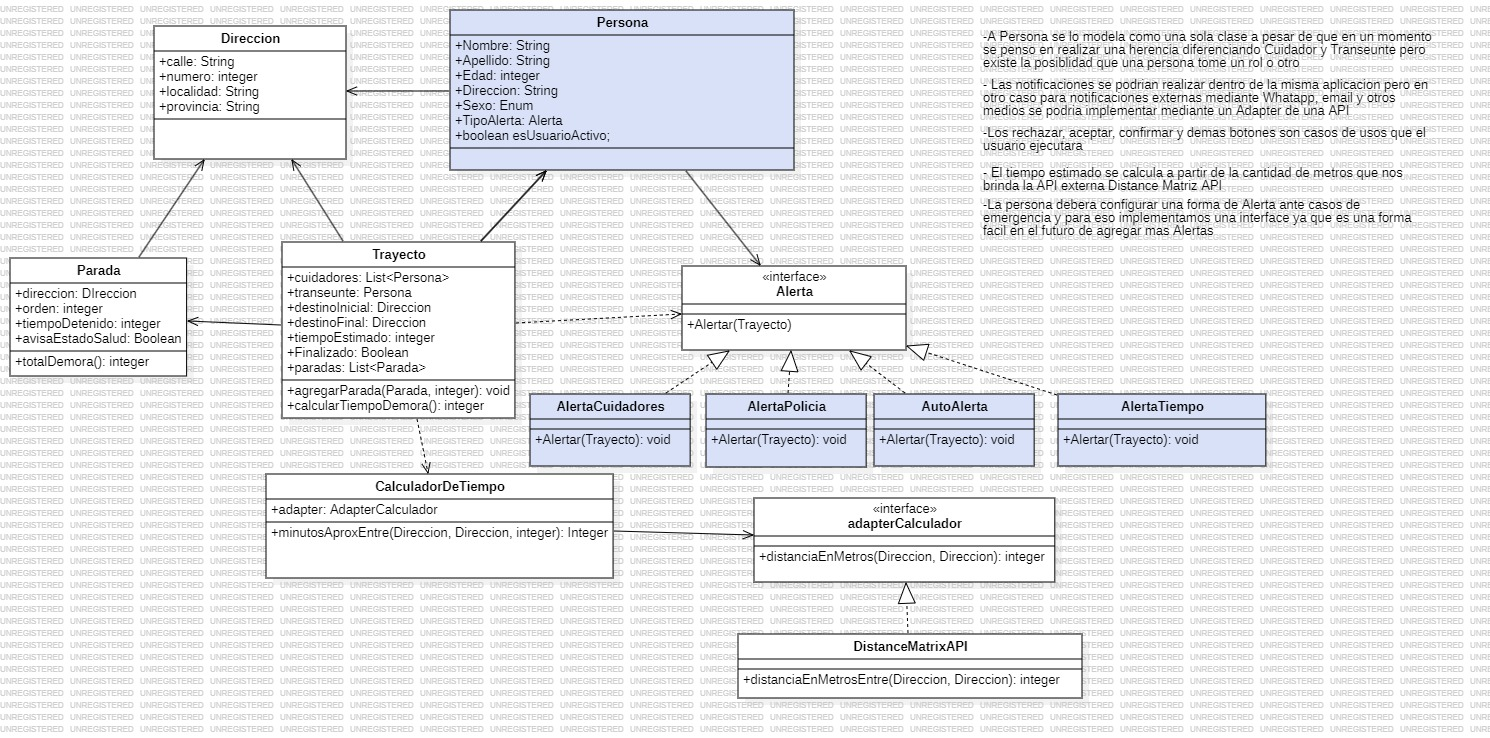
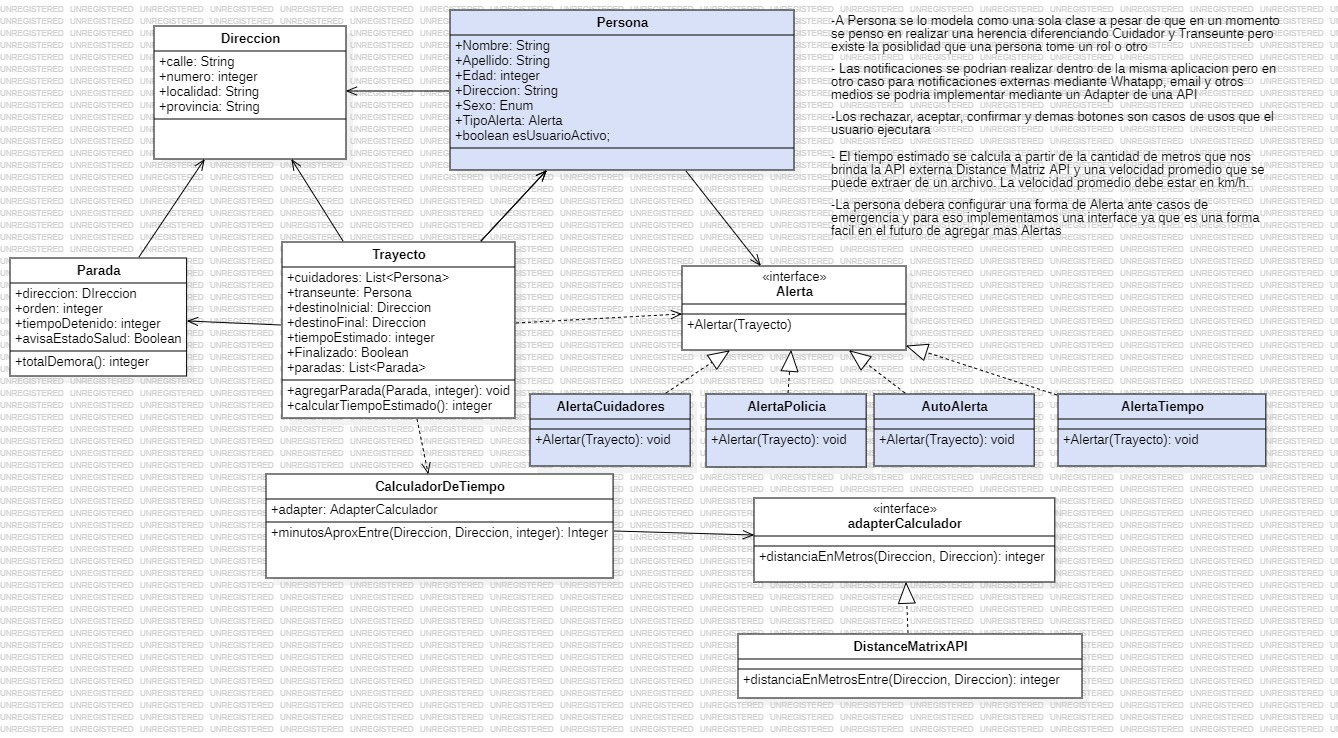
Detalles pequenios

Changed region(s): [[0.0, 0.0, 1.0, 0.9973]]

diff --git a/src/main/java/dominio/CalculadorDeTiempo.java b/src/main/java/dominio/CalculadorDeTiempo.java
@@ -3,8 +3,10 @@ package dominio;
 public class CalculadorDeTiempo { 
 
     public static int minutosAproxEntre(Direccion direccion1, Direccion direccion2, int velocidadPromedio) {
-        return AdapterCalculador.distanciaEnMetros(direccion1, direccion2) / velocidadPromedio;
+        // velocidadPromedio en km/h
+        int distancia = AdapterCalculador.distanciaEnMetros(direccion1, direccion2);
+        return distancia/(velocidadPromedio*1000/60);
     }
 
-  
 }
+
